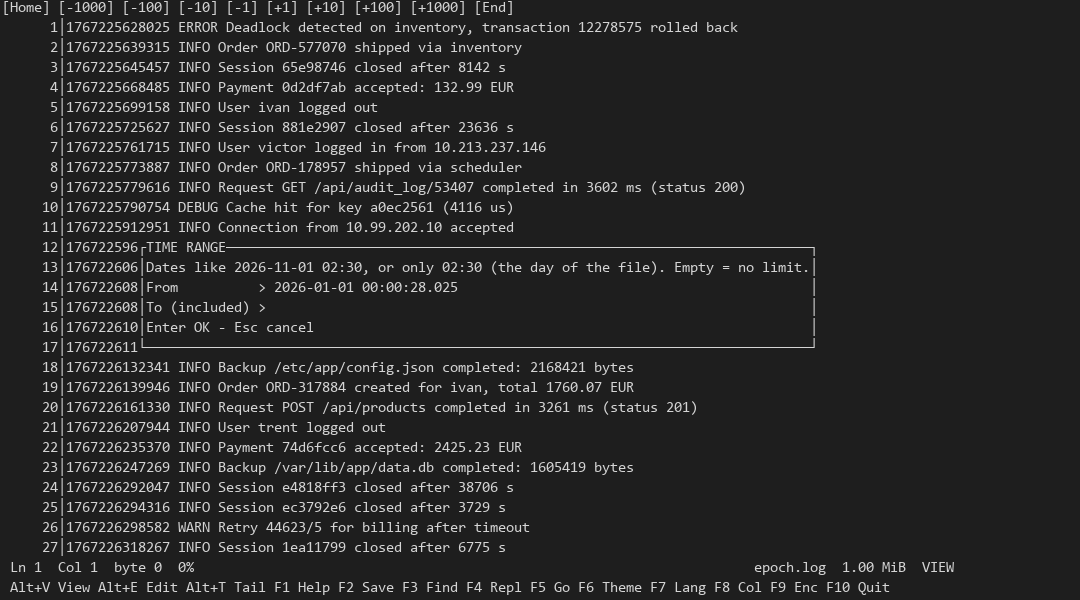
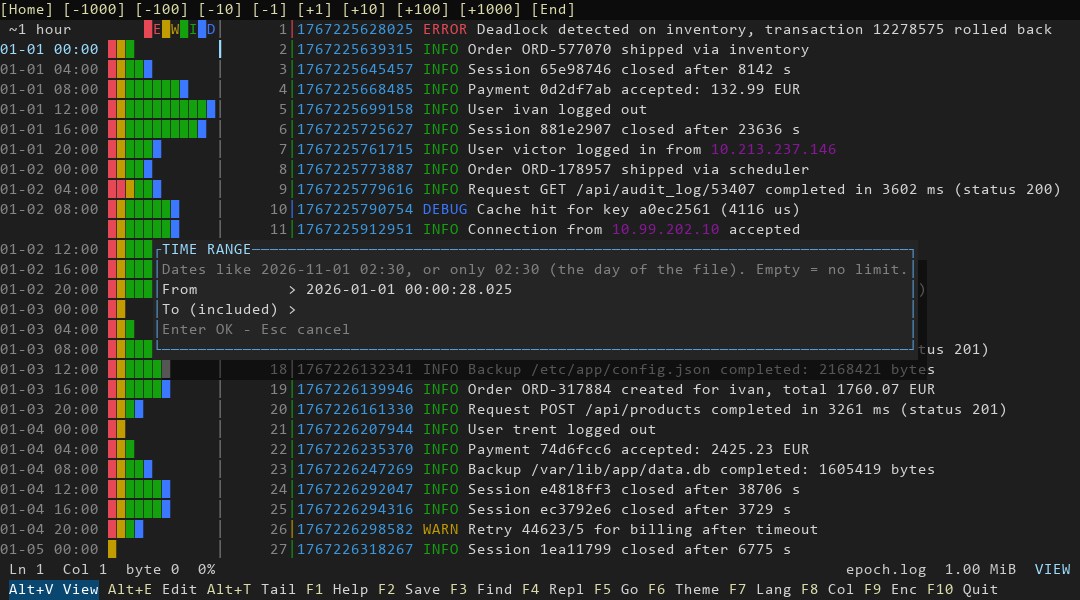
docs: le schermate TUI a colori (il --dump-colori esporta le celle, lo script le disegna con i loro colori: prima erano monocromatiche); il manuale senza lo stato di bozza nelle intestazioni e senza i numeri C1-C7 nei capitoli sotto il cofano [skip ci]

diff --git a/bench/make_tui_screens.py b/bench/make_tui_screens.py
@@ -51,9 +51,9 @@ def scompatta(nome, cartella):
 
 
 def dump(chiavi, file):
-    """One --dump run: the screen as a list of text lines. Ctrl+B always first, so the jump
-    bar is visible in every screenshot (the user expects to see it, like the GUI toolbar)."""
-    cmd = [EXE, '--dump', f'{COLONNE}x{RIGHE}', '--theme', 'dark', '--settings', SETTINGS, file]
+    """Una corsa di --dump-colori: lo schermo come celle, ognuna con colonna, riga, colore di primo piano e di
+    sfondo (esadecimale) e carattere. Ctrl+B sempre per primo, cosi' la barra dei salti si vede in ogni scatto."""
+    cmd = [EXE, '--dump', f'{COLONNE}x{RIGHE}', '--theme', 'dark', '--settings', SETTINGS, '--dump-colori', file]
     if chiavi:
         cmd += ['--keys', f'Ctrl+B,{chiavi}']
     else:
@@ -61,12 +61,20 @@ def dump(chiavi, file):
     r = subprocess.run(cmd, capture_output=True, timeout=30)
     if r.returncode != 0:
         sys.exit('mrp-tui failed: ' + r.stderr.decode('utf-8', errors='replace'))
-    testo = r.stdout.decode('utf-8', errors='replace')
-    return testo.splitlines()
+    celle = {}
+    for riga in r.stdout.decode('utf-8', errors='replace').splitlines():
+        # colonna riga fg bg carattere: il carattere puo' essere uno spazio, quindi si separa solo sui primi 4 campi
+        x, y, fg, bg, carattere = riga.split(' ', 4)
+        celle[(int(x), int(y))] = (fg, bg, carattere)
+    return celle
 
 
-def render(righe, percorso):
-    """Renders the text lines as a PNG that looks like a terminal."""
+def colore(esadecimale):
+    return tuple(int(esadecimale[i:i + 2], 16) for i in (0, 2, 4))
+
+
+def render(celle, percorso):
+    """Disegna lo schermo come un terminale a colori: ogni cella col suo sfondo e il suo primo piano."""
     from PIL import Image, ImageDraw, ImageFont
 
     # un font monospace: Consolas su Windows, fallback a quello di PIL
@@ -85,13 +93,15 @@ def render(righe, percorso):
     cella_w = bb[2] - bb[0]
     cella_h = 20  # le righe del terminale sono alte
 
-    img = Image.new('RGB', (cella_w * COLONNE, cella_h * len(righe)), (30, 30, 30))
+    img = Image.new('RGB', (cella_w * COLONNE, cella_h * RIGHE), (30, 30, 30))
     disegno = ImageDraw.Draw(img)
 
-    for i, riga in enumerate(righe):
-        y = i * cella_h
-        # il testo principale: grigio chiaro
-        disegno.text((2, y), riga, fill=(212, 212, 212), font=font)
+    for (x, y), (fg, bg, carattere) in celle.items():
+        px, py = x * cella_w, y * cella_h
+        # lo sfondo della cella, poi il carattere nel suo colore
+        disegno.rectangle([px, py, px + cella_w - 1, py + cella_h - 1], fill=colore(bg))
+        if carattere.strip():
+            disegno.text((px, py + 2), carattere, fill=colore(fg), font=font)
 
     img.save(percorso)
 

diff --git a/rust/crates/mrp-tui/src/main.rs b/rust/crates/mrp-tui/src/main.rs
@@ -8,6 +8,7 @@ use mrp_core::encoding::Encoding;
 use mrp_core::lang::Catalog;
 use mrp_tui::app::{App, AppConfig};
 use mrp_tui::args;
+use mrp_tui::cells;
 use mrp_tui::keys;
 use mrp_tui::term;
 use mrp_tui::workspace::Workspace;
@@ -178,7 +179,7 @@ fn run<I: IntoIterator<Item = OsString>>(argv: I) -> i32 {
     };
     match dump {
         // --dump: niente terminale, lo schermo come testo
-        Some((w, h)) => match dump_run(&mut ws, w, h, &tasti) {
+        Some((w, h)) => match dump_run(&mut ws, w, h, &tasti, a.dump_colori) {
             Ok(()) => 0,
             Err(e) => {
                 eprintln!("{}", e);
@@ -196,8 +197,9 @@ fn run<I: IntoIterator<Item = OsString>>(argv: I) -> i32 {
 }
 
 /// La modalita' `--dump`: ridimensiona l'app a W x H, applica i tasti (un `tick` dopo ognuno), aspetta che i
-/// lavori in background finiscano e stampa lo schermo, una riga per riga.
-fn dump_run(app: &mut Workspace, w: u16, h: u16, tasti: &[KeyEvent]) -> io::Result<()> {
+/// lavori in background finiscano e stampa lo schermo, una riga per riga. Con `--dump-colori` stampa invece ogni cella
+/// come `colonna riga fg bg carattere` (colori RGB in esadecimale), per disegnare lo schermo a colori.
+fn dump_run(app: &mut Workspace, w: u16, h: u16, tasti: &[KeyEvent], colori: bool) -> io::Result<()> {
     app.resize(w, h);
     for tasto in tasti {
         app.handle_key(*tasto);
@@ -210,8 +212,32 @@ fn dump_run(app: &mut Workspace, w: u16, h: u16, tasti: &[KeyEvent]) -> io::Resu
     }
     let _ = app.wait_idle(ATTESA_DUMP);
     let mut out = io::stdout().lock();
-    for riga in app.render_lines(w, h) {
-        writeln!(out, "{}", riga)?;
+    if colori {
+        let g = cells::render_grid_workspace(app, w, h);
+        for y in 0..g.h {
+            for x in 0..g.w {
+                if let Some(c) = g.cella(x, y) {
+                    let s = if c.simbolo.is_empty() { " " } else { c.simbolo.as_str() };
+                    writeln!(
+                        out,
+                        "{} {} {:02x}{:02x}{:02x} {:02x}{:02x}{:02x} {}",
+                        x,
+                        y,
+                        c.fg[0],
+                        c.fg[1],
+                        c.fg[2],
+                        c.bg[0],
+                        c.bg[1],
+                        c.bg[2],
+                        s
+                    )?;
+                }
+            }
+        }
+    } else {
+        for riga in app.render_lines(w, h) {
+            writeln!(out, "{}", riga)?;
+        }
     }
     out.flush()
 }

diff --git a/rust/crates/mrp-tui/src/args.rs b/rust/crates/mrp-tui/src/args.rs
@@ -30,6 +30,8 @@ pub struct Args {
     pub settings: Option<PathBuf>,
     /// `--dump WxH` (sviluppatore): lo schermo come testo, senza terminale.
     pub dump: Option<String>,
+    /// `--dump-colori` (sviluppatore): con `--dump`, ogni cella come `colonna riga fg bg carattere`, per disegnare i colori.
+    pub dump_colori: bool,
     /// `--keys LISTA` (sviluppatore): i tasti che `--dump` applica uno alla volta.
     pub keys: Option<String>,
     /// `-h` / `--help`.
@@ -62,6 +64,7 @@ pub fn parse<I: IntoIterator<Item = OsString>>(argv: I) -> Result<Args, String> 
             "--lang-dir" => args.lang_dir = Some(percorso(&mut resto, "--lang-dir")?),
             "--settings" => args.settings = Some(percorso(&mut resto, "--settings")?),
             "--dump" => args.dump = Some(testo(&mut resto, "--dump")?),
+            "--dump-colori" => args.dump_colori = true,
             "--keys" => args.keys = Some(testo(&mut resto, "--keys")?),
             _ => return Err(arg.to_string_lossy().into_owned()),
         }

diff --git a/docs/MANUAL.it.md b/docs/MANUAL.it.md
@@ -1,10 +1,6 @@
 # Manto.RustPad — Manuale
 
-> **Stato: traduzione completa.** Tutte le carte (apertura e navigazione, modi e salvataggio, tempo, timeline e filtri,
-> codifiche), i capitoli "sotto il cofano" (salvataggio automatico e sessione, salvataggio, indice delle righe, tempo,
-> codifiche, ricerca, cache) e la tabella dei test UX. Le funzionalita' sono congelate per la prima release. Questo
-> documento descrive cio' che il prodotto fa oggi. La versione inglese (`MANUAL.md`) e' la fonte; questa e' la sua
-> traduzione, mantenuta in passo con lei.
+> Questo documento descrive cio' che il prodotto fa oggi. La versione inglese (`MANUAL.md`) e' la fonte; questa e' la sua traduzione.
 
 ## 0. Come si legge questo documento
 
@@ -391,7 +387,7 @@ riga di stato del terminale.
 Questi capitoli spiegano come funzionano le parti, dove tengono i loro dati e cosa garantiscono. Le costanti vengono dal sorgente
 e sono controllate dai test dove indicato.
 
-### C1. Salvataggio automatico e sessione: come sopravvive il lavoro non salvato
+###  Salvataggio automatico e sessione: come sopravvive il lavoro non salvato
 
 **Cos'e'.** Una piccola cartella di file che ricorda le schede aperte e, per ogni scheda con modifiche non salvate, quelle modifiche. E'
 quello che ti lascia premere `F10` senza domande e ritrovare tutto alla prossima partenza.
@@ -442,7 +438,7 @@ viene mai scambiato per un file di lavoro. Le esecuzioni di sviluppo con `--dump
 
 **Test che la coprono:** `mrp-tui/tests/session.rs`, `untitled.rs`.
 
-### C2. Modifica e salvataggio: piece table e scrittura sicura
+###  Modifica e salvataggio: piece table e scrittura sicura
 
 **Modificare senza copiare.** Un documento e' una mappatura in sola lettura del file piu' una **piece table**: un elenco ordinato di pezzi, ognuno
 dei quali punta nel file originale oppure in un piccolo buffer solo-aggiunto che raccoglie tutto quello che digiti. La memoria dipende dalla
@@ -483,7 +479,7 @@ conversione col suo file temporaneo (`<nome>.<pid>.<n>.mrp-conv`) nella cartella
 
 **Test che la coprono:** test dei documenti di `mrp-core`, `mrp-tui/tests/app_edit.rs`, `revert.rs`, `save_encoding.rs`.
 
-### C3. Indice delle righe e navigazione senza leggere il file
+###  Indice delle righe e navigazione senza leggere il file
 
 **L'idea.** L'apertura e' immediata perche' nulla si legge in anticipo: il file e' memory-mappato e lo schermo chiede solo i byte che
 mostra. I numeri di riga servono l'indice, che si costruisce in background.
@@ -519,7 +515,7 @@ mapping.
 
 **Test che la coprono:** `mrp-core/tests` (indice e codifiche), `mrp-tui/tests/pausa_indice.rs`, `avanzamento.rs`.
 
-### C4. Tempo: formati, salto a un orario, intervallo, timeline
+###  Tempo: formati, salto a un orario, intervallo, timeline
 
 **L'idea.** Un log e' quasi sempre ordinato per tempo e il tempo sta in testa a ogni riga. Quindi il programma non ha mai bisogno di un indice
 dei tempi: trova qualunque orario con una ricerca binaria sui byte del file, leggendo solo i primi cento byte di una manciata di righe. E'
@@ -565,7 +561,7 @@ file; UTF-16/32 non ha funzioni del tempo.
 
 **Test che la coprono:** core `timemask*`, `timesearch*`, `timekey*`, `timeline*`, `loghl*`; terminale `goto_time`, `time_*`, `timeline_*`.
 
-### C5. Codifiche, fine riga, modalita' colonna
+###  Codifiche, fine riga, modalita' colonna
 
 **L'idea.** Un documento e' sempre una sequenza di byte; la codifica e' solo la lente che dice come quei byte si leggono come caratteri
 (schermo, cursore, larghezze di colonna) e come un carattere digitato diventa byte. Posizione, conteggi di riga e ricerche restano allineati
@@ -602,7 +598,7 @@ blocco se *comincia* dentro le colonne; il `\r` nascosto e il `\n` mai. Ogni azi
 
 **Test che la coprono:** `app_bom`, `app_lineending`, `eol_option`, `save_encoding`, `app_column`, test di codifica del core.
 
-### C6. Ricerca, sostituzione e filtro per righe
+###  Ricerca, sostituzione e filtro per righe
 
 **Cercare sul documento modificato.** Una ricerca non gira sul file: prende una *fotografia* del documento modificato (una lettura condivisa
 del file mappato piu' una copia della piece table) e gira in un thread, in blocchi da 1 MiB con sovrapposizione, controllando il flag di annullamento prima di ogni blocco.
@@ -625,7 +621,7 @@ scheda si chiude o il programma esce; un filtro che non trova niente, fallisce o
 
 **Test che la coprono:** core `pattern`, `docsearch`; terminale `dialog_search`, `replace`, `filter_view`, `filters_app`.
 
-### C7. Cache: cosa si ricorda, e quando si butta
+###  Cache: cosa si ricorda, e quando si butta
 
 **Il principio.** Niente si rende persistente: ogni cache vive in RAM dentro il processo e sparisce quando esce (le uniche cose
 scritte su disco sono il documento salvato, le impostazioni e la sessione). La piu' grande non e' nostra: il file e' memory-mappato, quindi le sue

diff --git a/docs/MANUAL.md b/docs/MANUAL.md
@@ -1,8 +1,6 @@
 # Manto.RustPad — Manual
 
-> **Status: first draft.** Written so far: the product overview, the cards for opening and navigating, modes and saving, time and
-> filters, and the "under the hood" notes for autosave, saving, the line index, time, encodings, search and caches. Still to do: the
-> remaining cards (encodings and columns, tab details, settings, themes, help). Features are frozen for the first release. This
+> This document describes what the product does today. The English version (`MANUAL.md`) is the source; the Italian one is its translation.
 
 ## 0. How to read this document
 
@@ -376,7 +374,7 @@ status row as the terminal.
 These chapters explain how the parts work, where they keep their data and what they guarantee. Constants are from the source
 and are checked by tests where noted.
 
-### C1. Autosave and session: how unsaved work survives
+###  Autosave and session: how unsaved work survives
 
 **What it is.** A small folder of files that remembers your open tabs and, for each tab with unsaved changes, those changes. It is
 what lets you press `F10` without a question and find everything again at the next start.
@@ -427,7 +425,7 @@ mistaken for a scratch file. Developer runs with `--dump`, or with `MRP_NO_PROFI
 
 **Tests that cover it:** `mrp-tui/tests/session.rs`, `untitled.rs`.
 
-### C2. Editing and saving: piece table and safe write
+###  Editing and saving: piece table and safe write
 
 **Editing without copying.** A document is a read-only memory map of the file plus a **piece table**: an ordered list of pieces, each
 pointing either into the original file or into a small append-only buffer that collects everything you type. Memory depends on the
@@ -466,7 +464,7 @@ conversion step with its own temporary file (`<name>.<pid>.<n>.mrp-conv`) in the
 
 **Tests that cover it:** `mrp-core` document tests, `mrp-tui/tests/app_edit.rs`, `revert.rs`, `save_encoding.rs`.
 
-### C3. Line index and navigation without loading the file
+###  Line index and navigation without loading the file
 
 **The idea.** Opening is instant because nothing is read up front: the file is memory-mapped and the screen asks only for the bytes
 it shows. Line numbers need the index, which is built in the background.
@@ -501,7 +499,7 @@ risk of memory mapping.
 
 **Tests that cover it:** `mrp-core/tests` (index and encodings), `mrp-tui/tests/pausa_indice.rs`, `avanzamento.rs`.
 
-### C4. Time: formats, jump to a time, range, timeline
+###  Time: formats, jump to a time, range, timeline
 
 **The idea.** A log is almost always sorted by time and the time is at the head of each line. So the program never needs an index of
 times: it can find any time with a binary search over the bytes of the file, reading only the first few hundred bytes of a handful
@@ -546,7 +544,7 @@ file; UTF-16/32 has no time features at all.
 
 **Tests that cover it:** core `timemask*`, `timesearch*`, `timekey*`, `timeline*`, `loghl*`; terminal `goto_time`, `time_*`, `timeline_*`.
 
-### C5. Encodings, line endings, column mode
+###  Encodings, line endings, column mode
 
 **The idea.** A document is always a sequence of bytes; the encoding is only the lens that says how those bytes read as characters
 (display, cursor, column widths) and how a typed character becomes bytes. Position, line counts and searches stay aligned to the
@@ -583,7 +581,7 @@ the block if it *starts* inside the columns; the hidden `\r` and the `\n` never 
 
 **Tests that cover it:** `app_bom`, `app_lineending`, `eol_option`, `save_encoding`, `app_column`, core encoding tests.
 
-### C6. Search, replace and the line filter
+###  Search, replace and the line filter
 
 **Searching the edited document.** A search does not run on the file: it takes a *snapshot* of the edited document (a shared
 read of the mapped file plus a copy of the piece table) and runs on a worker thread, in 1 MiB blocks with overlap, checking the cancel flag before every block.
@@ -606,7 +604,7 @@ tab closes or the program exits; a filter that finds nothing, fails or is cancel
 
 **Tests that cover it:** core `pattern`, `docsearch`; terminal `dialog_search`, `replace`, `filter_view`, `filters_app`.
 
-### C7. Caches: what is remembered, and when it is thrown away
+###  Caches: what is remembered, and when it is thrown away
 
 **The principle.** Nothing is persisted: every cache lives in RAM inside the process and disappears when it exits (the only things
 written to disk are the saved document, the settings and the session). The big one is not ours: the file is memory-mapped, so its
